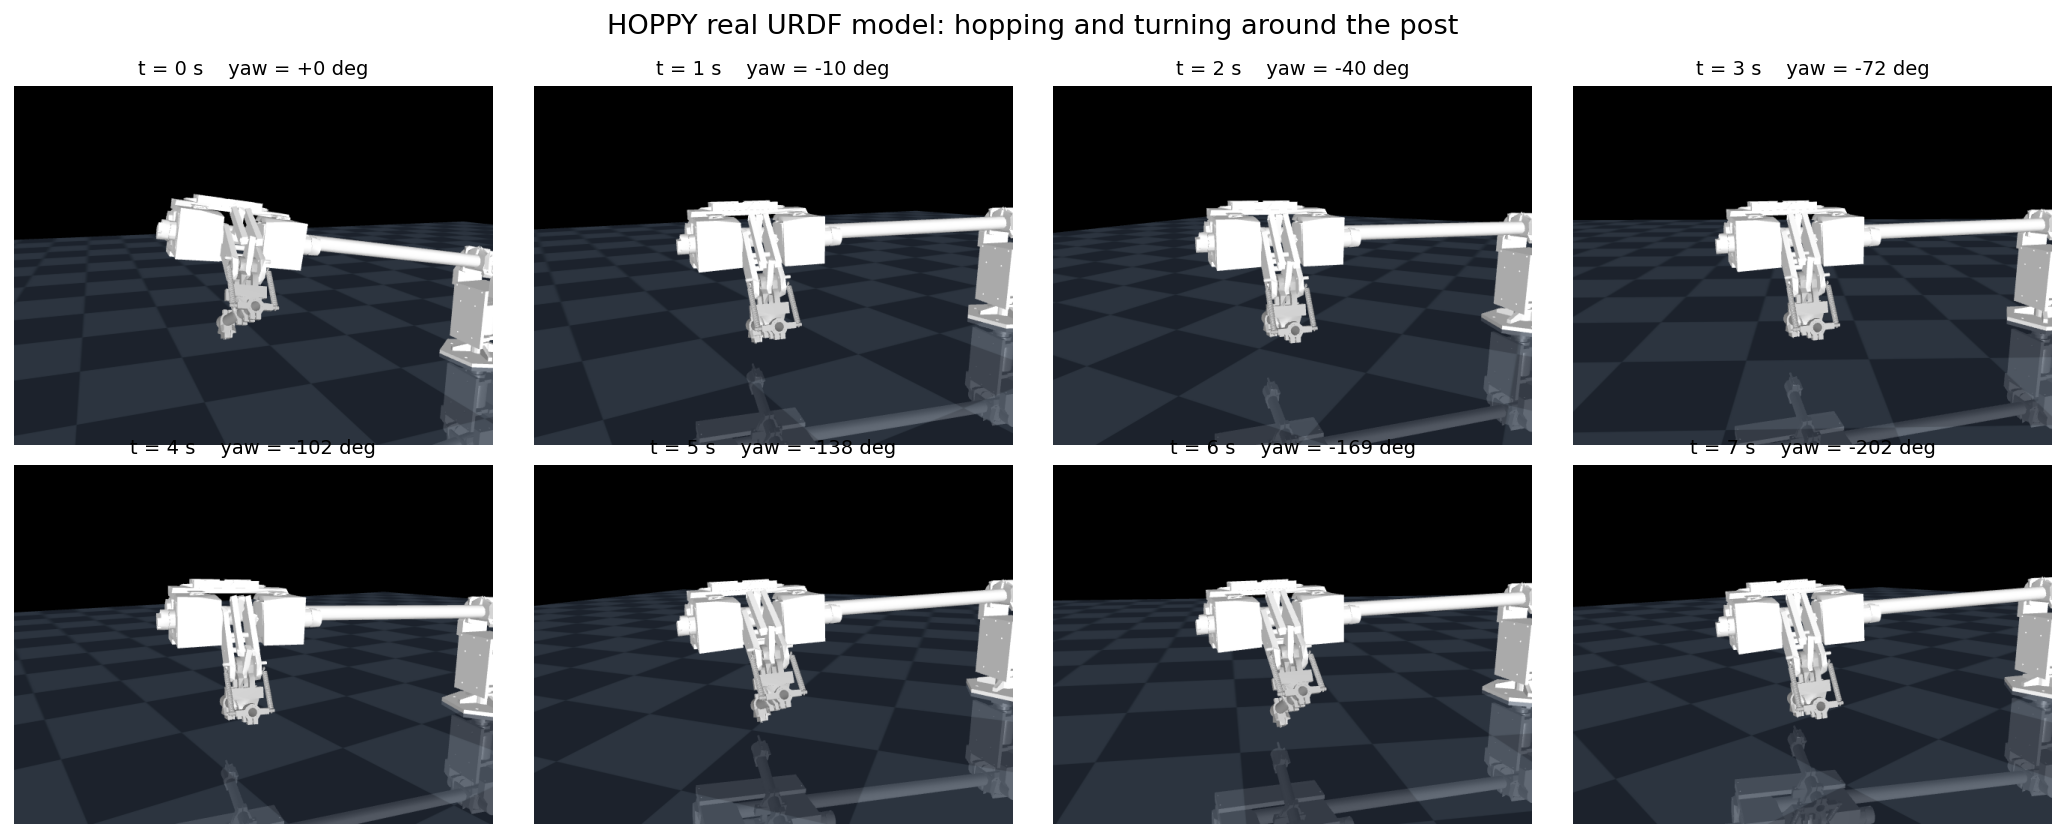
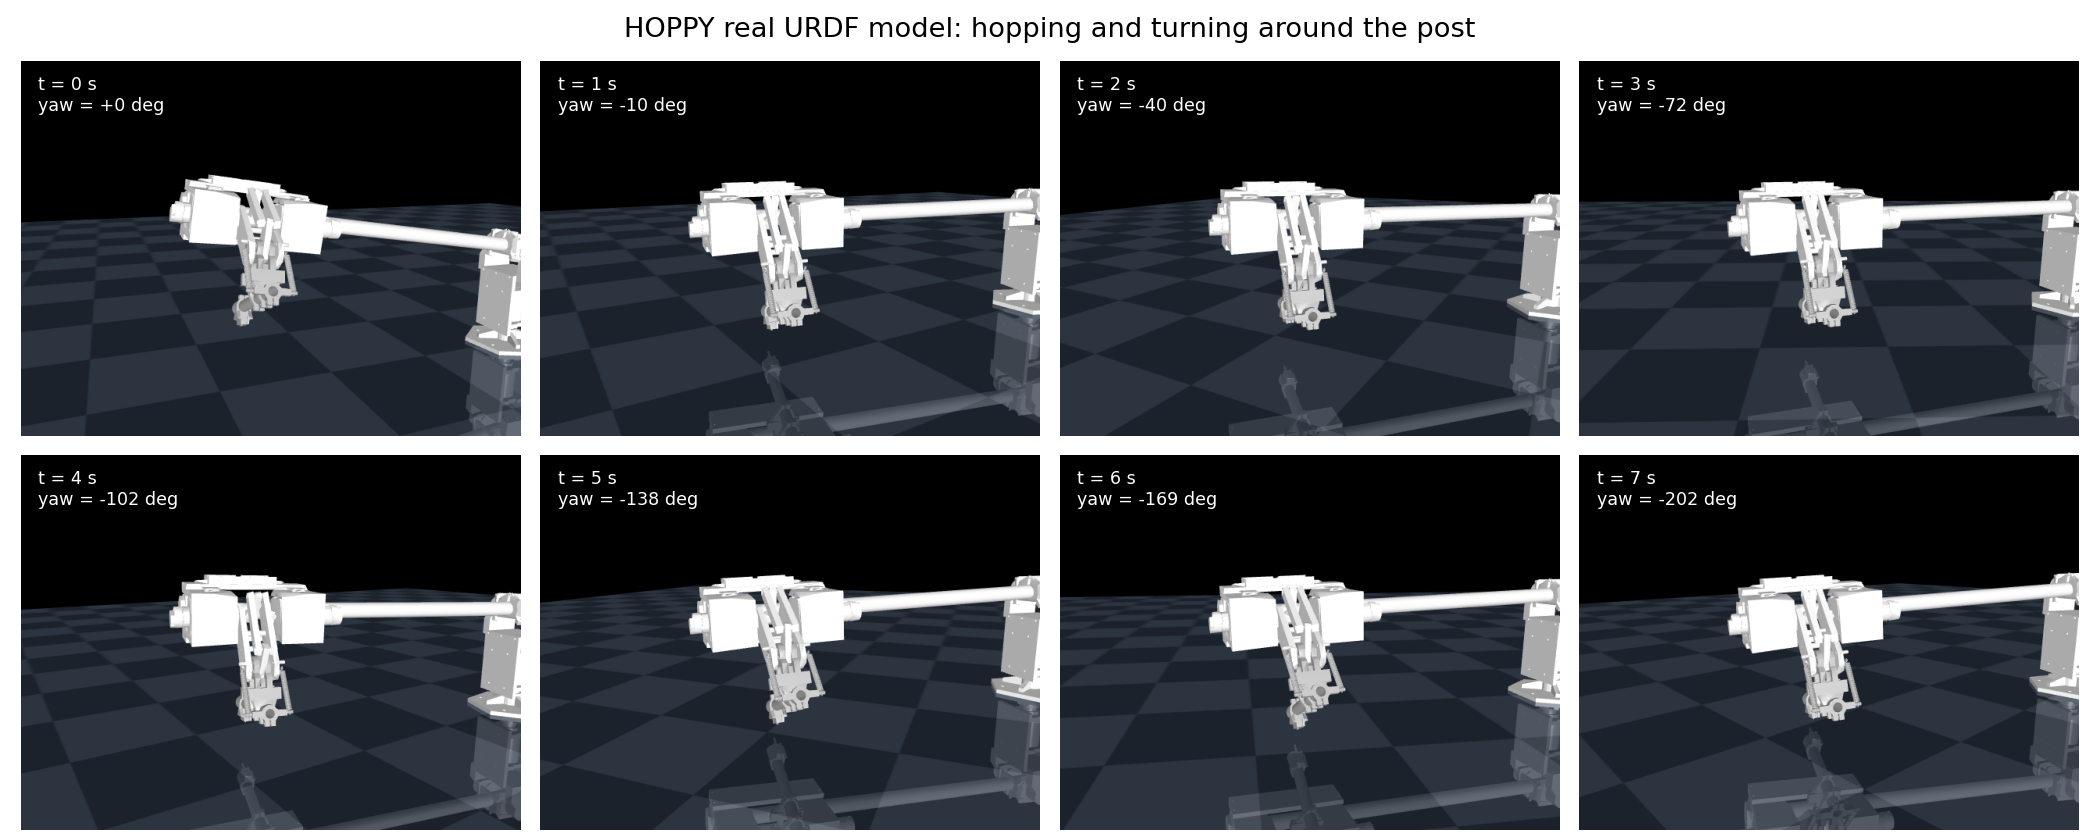
Arreglar el hero: etiquetas dentro de cada cuadro (sin sobrelape de titulos)

Changed region(s): [[0.0, 0.0, 1.0, 0.9928]]

diff --git a/mujoco/render_sequence.py b/mujoco/render_sequence.py
@@ -55,13 +55,15 @@ def main():
         ax.axis("off")
         if k < len(frames):
             ax.imshow(frames[k])
-            ax.set_title(f"t = {TIMES[k]} s    yaw = {yaws[k]:+.0f} deg", fontsize=10)
-    fig.suptitle("HOPPY real URDF model: hopping and turning around the post",
-                 fontsize=14, y=0.99)
-    fig.tight_layout()
+            # label inside the frame (white on the dark render) so titles never overlap
+            ax.text(0.035, 0.96, f"t = {TIMES[k]} s\nyaw = {yaws[k]:+.0f} deg",
+                    transform=ax.transAxes, va="top", ha="left", fontsize=9, color="white",
+                    bbox=dict(boxstyle="round,pad=0.3", fc="black", alpha=0.45, ec="none"))
+    fig.suptitle("HOPPY real URDF model: hopping and turning around the post", fontsize=14)
+    fig.subplots_adjust(left=0.01, right=0.99, top=0.93, bottom=0.01, wspace=0.04, hspace=0.04)
     os.makedirs("figuras", exist_ok=True)
     out = "figuras/hop_sequence.png"
-    fig.savefig(out, dpi=140, bbox_inches="tight")
+    fig.savefig(out, dpi=140)
     print(f"saved {out} ({len(frames)} frames)")
 
 
